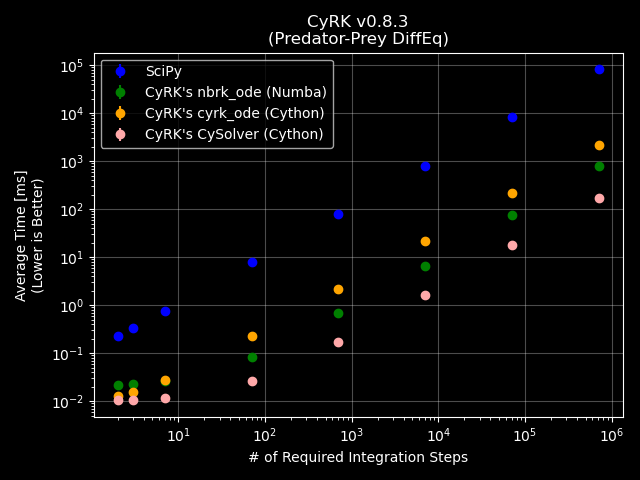
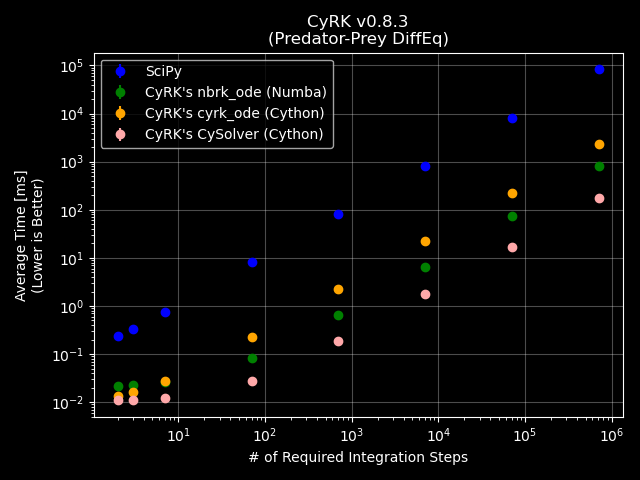
updated benchmarks

diff --git a/CHANGES.md b/CHANGES.md
@@ -26,6 +26,7 @@ Other Changes:
 
 Bug Fixes:
 - Fixed potential memory leaks in cython-based solvers when exceptions are raised.
+  - The new safe guards (likely the try/finally blocks) did cause a somewhat sizable hit to performance.
 
 #### v0.8.2 (2023-09-25)
 
